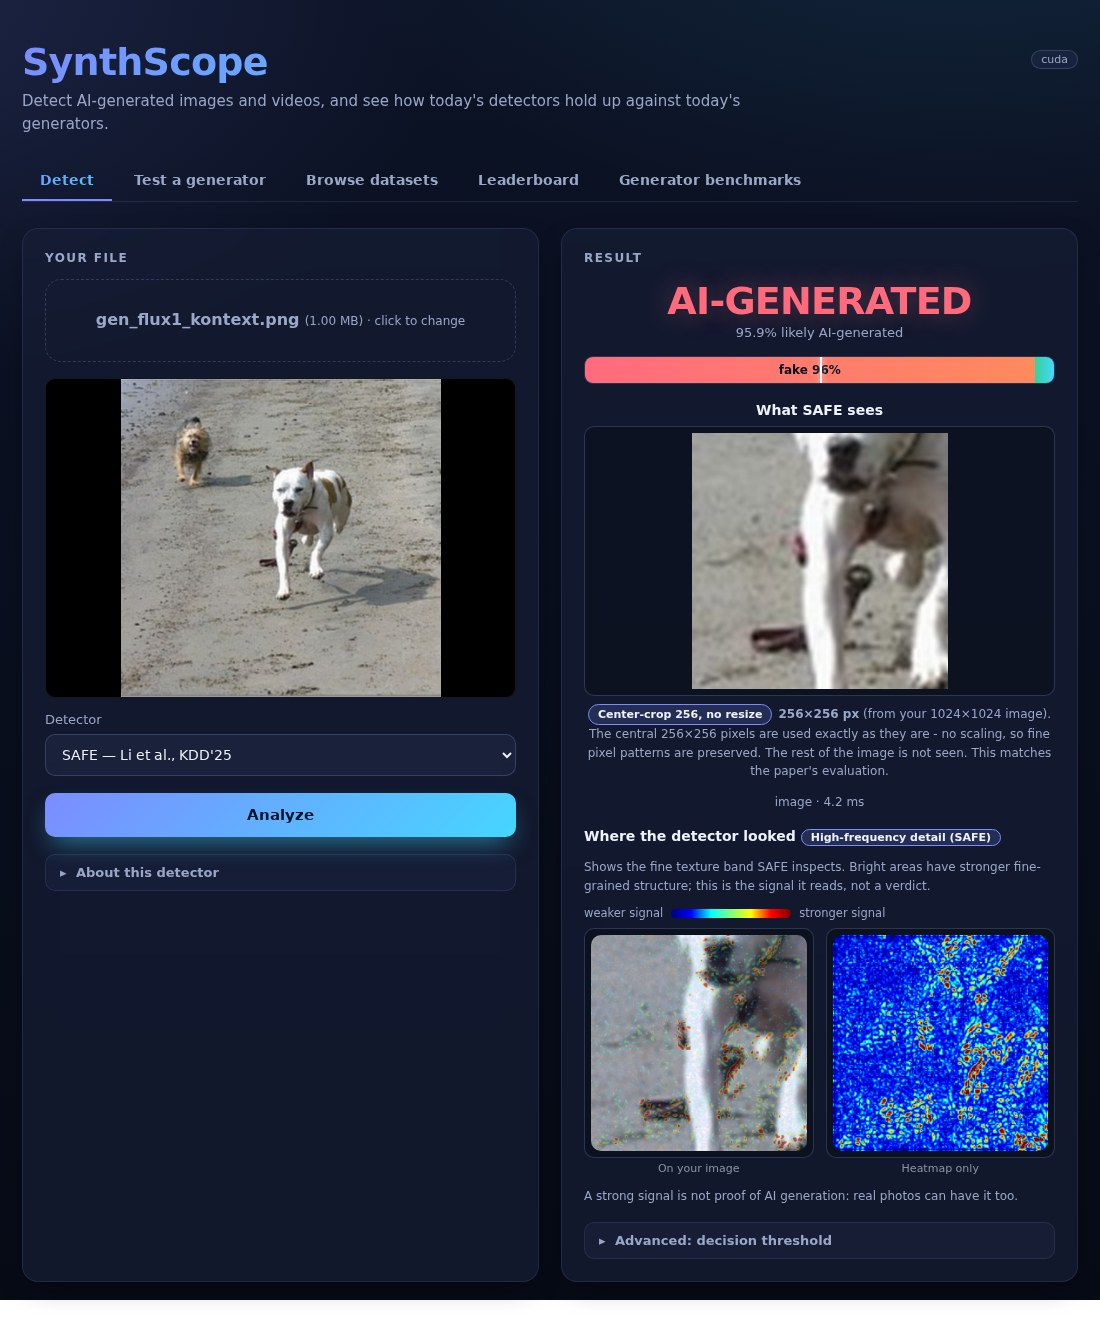
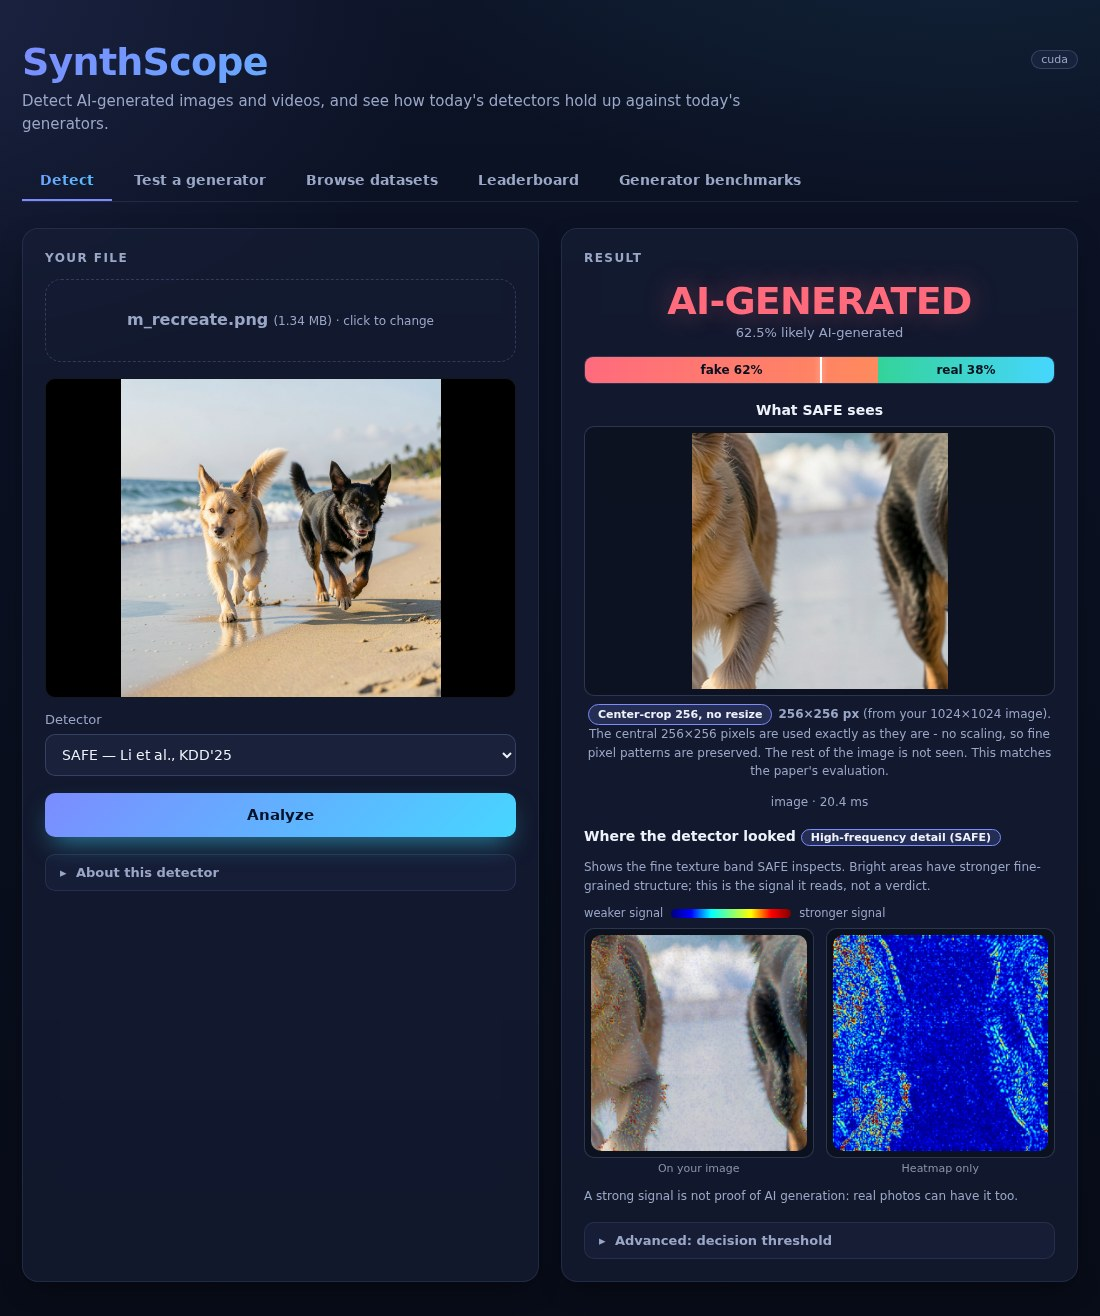
README: new Test a generator description and screenshots (re-created image)
Claude-Session: https://claude.ai/code/session_01P5hqBUUajooxresidrtNPz

diff --git a/README.md b/README.md
@@ -28,7 +28,7 @@ A browser app for trying the detectors without writing code. The detectors alway
 | Tab | What you do there |
 | --- | --- |
 | **Detect** | Upload an image or video, pick a detector, and get a verdict with a probability. The page shows the image *as the detector sees it* (after that detector's own preprocessing, with a short explanation) and, for some detectors, a heatmap of where it looked. |
-| **Test a generator** | Take a real photo, let a current image generator create a new image from it, and see which detectors catch it. Generate once, then add or remove detectors freely: they all score the same image. |
+| **Test a generator** | Take a real photo and let a current image generator make a new image from it: either **re-create** it from a written description of your photo (every pixel is synthesized) or **edit** your photo. Then see which detectors catch the result. Generate once, then add or remove detectors freely: they all score the same image. A similarity score warns you when a result is just a lightly edited copy of your photo. |
 | **Browse datasets** | Click through samples of the benchmark datasets and see a detector's score on each. Score a whole batch and tune the decision threshold. |
 | **Leaderboard** | Every method on every benchmark it reports: the paper's number, our own retrained checkpoint, and the authors' official weights. |
 | **Generator benchmarks** | How each detector does against specific modern generators, ranked by AUROC. |
@@ -37,7 +37,7 @@ A browser app for trying the detectors without writing code. The detectors alway
   <img src="docs/images/generator.jpg" width="49%" alt="Test a generator: a real photo, the image FLUX.2 klein made from it, and four detectors scoring both"/>
   <img src="docs/images/detect.jpg" width="49%" alt="Detect: verdict, what the detector sees after its own preprocessing, and a heatmap of where it looked"/>
 </p>
-<p align="center"><sub><b>Left:</b> <i>Test a generator</i>, where FLUX.2 klein turns a real photo into a new image and four detectors score both.
+<p align="center"><sub><b>Left:</b> <i>Test a generator</i>, where your photo is described in words, FLUX.2 klein creates a new image from that description, and four detectors score both.
 <b>Right:</b> <i>Detect</i>, with the verdict, the image as the detector sees it, and a heatmap.</sub></p>
 
 <details>
